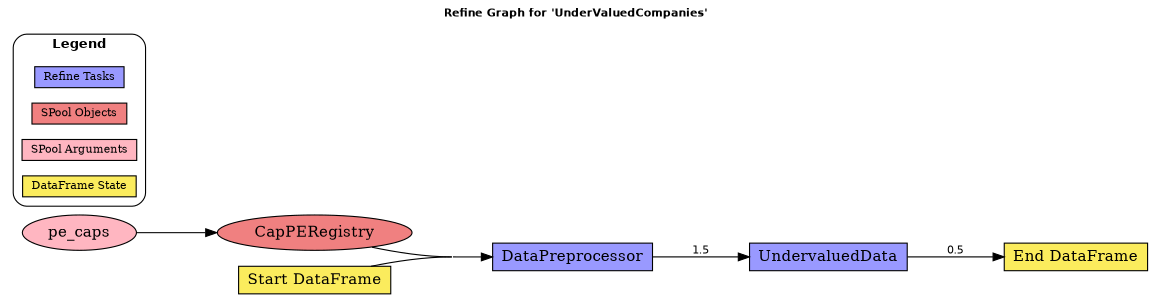
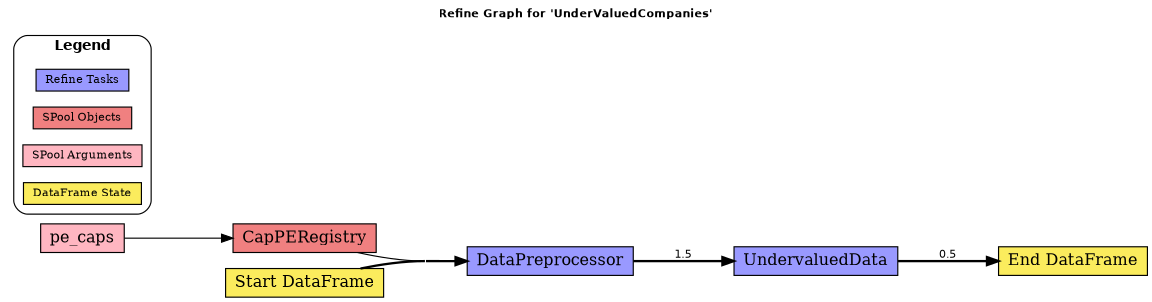
wrap node and edge creation and introduce clustering

Changed region(s): [[0.0, 0.151, 1.0, 0.9966], [0.0, 0.0906, 0.125, 0.1812], [0.375, 0.0302, 0.625, 0.0604]]

diff --git a/weaveflow/core/nxgraph.py b/weaveflow/core/nxgraph.py
@@ -105,11 +105,24 @@ class _BaseGraph(ABC):
         """Extract delta time from collection if available."""
         dt = collection[node]["delta_time"] if node in collection else None
         return f"{dt:,.1f}" if dt else None
-    
+
+    def _style_graph_nodes(self, g: graphviz.Digraph, shapes: dict, colors: dict):
+        """Applies styles (shape, color) to all nodes in the graph."""
+        for k, v in self.graph.nodes.items():
+            node_type = v.get("type")
+            if node_type in shapes:
+                g.node(
+                    k,
+                    shape=shapes[node_type],
+                    style="filled",
+                    fillcolor=colors[node_type],
+                    height="0.35",
+                )
+
     def _rank_source_and_sink_nodes(self, g: graphviz.Digraph) -> None:
         """
         Identify and rank source and sink nodes. Can improve readability of the graph.
-        However, it can also make the graph look cluttered, so use with caution. 
+        However, it can also make the graph look cluttered, so use with caution.
         """
         # Identify and rank source and sink nodes
         source_nodes = [n for n, d in self.graph.in_degree() if d == 0]
@@ -170,9 +183,54 @@ class WeaveGraph(_BaseGraph):
             self.graph.add_edges_from([(v, fn) for v in oargs])
             self.graph.add_edges_from([(fn, v) for v in outputs])
 
+    def _create_task_clusters(self, g: graphviz.Digraph, weave_collector: dict):
+        """Creates a visually distinct cluster for each weave task."""
+        # TODO: Fix warning
+        for fn, vals in weave_collector.items():
+            with g.subgraph(name=f"cluster_{fn}") as c:
+                c.attr(
+                    label=fn,
+                    style="rounded",
+                    color="gray",
+                    fontcolor="gray",
+                    fontsize="10",
+                )
+                # Add the main task node and its direct parameter nodes to the cluster
+                c.node(fn)
+                for p_node in vals.get("params", []):
+                    c.node(p_node)
+
+    def _style_graph_edges(self, g: graphviz.Digraph, weave_collector: dict, timer: bool):
+        """Applies styles (dashed, labels) to all edges in the graph."""
+        for n1, n2 in self.graph.edges():
+            edge_attrs = {}
+            node1_type = self.graph.nodes[n1].get("type")
+
+            if node1_type == "arg_opt":
+                edge_attrs["style"] = "dashed"
+
+            if node1_type == "weave" and timer:
+                label = self._extract_date_from_collection(n1, weave_collector)
+                if label:
+                    edge_attrs.update(
+                        {
+                            "label": label,
+                            "fontsize": "10",
+                            "fontname": "Helvetica",
+                            "labeldistance": "0.5",
+                            "decorate": "False",
+                        }
+                    )
+            g.edge(n1, n2, **edge_attrs)
+
     def build(
-        self, size: int = 12, timer: bool = False, mindist: float = 1.2, legend: bool = True,
-        sink_source: bool = False, 
+        self,
+        size: int = 12,
+        timer: bool = False,
+        mindist: float = 1.2,
+        legend: bool = True,
+        sink_source: bool = False,
+        cluster_tasks: bool = False,
     ) -> graphviz.Digraph:
         """Builds and returns the Graphviz Digraph object for the weave tasks.
 
@@ -192,6 +250,8 @@ class WeaveGraph(_BaseGraph):
                 Defaults to True.
             sink_source (bool, optional): If True, ranks source and sink nodes.
                 Defaults to False.
+            cluster_tasks (bool, optional): If True, groups each weave task and
+                its parameters into a distinct visual cluster. Defaults to True.
 
         Returns:
             graphviz.Digraph: A Graphviz Digraph object representing the weave graph.
@@ -228,7 +288,7 @@ class WeaveGraph(_BaseGraph):
             "arg_opt": ("box", "#99ff99"),
             "outputs": ("box", "#fbec5d"),
             "arg_param": ("box", "#ffb6c1"),
-        }   
+        }
         clrs = {k: v[1] for k, v in weave_nodes_style.items()}
         shapes = {k: v[0] for k, v in weave_nodes_style.items()}
 
@@ -248,34 +308,15 @@ class WeaveGraph(_BaseGraph):
         if sink_source:
             self._rank_source_and_sink_nodes(g)
 
-        for k, v in self.graph.nodes.items():
-            g.node(k, shape=shapes[v["type"]], style="filled", fillcolor=clrs[v["type"]], height="0.35")
+        # Create clusters for each weave task
+        if cluster_tasks:
+            self._create_task_clusters(g, weave_collector)
 
-        for n1, n2 in self.graph.edges():
-            # If left node is weave and produces output
-            if self.graph.nodes[n1]["type"] == "weave" and timer:
-                # Extract time of function execution
-                label = self._extract_date_from_collection(n1, weave_collector)
-                if label:
-                    g.edge(
-                        n1,
-                        n2,
-                        label=label,
-                        fontsize="10",
-                        fontname="Helvetica",
-                        labeldistance="0.5",
-                        decorate="False",
-                    )
-                else:
-                    g.edge(n1, n2)
-                    
-            elif self.graph.nodes[n1]["type"] == "arg_opt":
-                g.edge(n1, n2, style="dashed")
+        # Style nodes and edges
+        self._style_graph_nodes(g, shapes, clrs)
+        self._style_graph_edges(g, weave_collector, timer)
 
-            else:
-                g.edge(n1, n2)
-
-        # Plot legend if specified
+        # Add legend if specified
         if legend:
             _set_graph_legend(
                 g,
@@ -363,28 +404,77 @@ class RefineGraph(_BaseGraph):
             # TODO: Intergate on_method argument as label
             # TODO: Add timer to edges between tasks
 
-            if params:
+            if params and params_object:
                 # Add connection between params (config file args) and params_object
-                self.graph.add_edges_from([(v, params_object) for v in params])
+                self.graph.add_edges_from([(v, params_object) for v in params], flow="data")
                 # Add connection between params_object and refine task
-                self.graph.add_edges_from([(params_object, fn)])
+                self.graph.add_edge(params_object, fn, flow="data")
 
         # Add edges between refine tasks and connect to Start/End
         refine_tasks = list(refine_collector)
         if refine_tasks:
             # Add edges between refine tasks
             if len(refine_tasks) > 1:
-                self.graph.add_edges_from([(i, j) for i, j in zip(refine_tasks, refine_tasks[1:])])
+                self.graph.add_edges_from(
+                    [(i, j) for i, j in zip(refine_tasks, refine_tasks[1:])],
+                    flow="control",
+                )
 
             # Add Start/End nodes and connect them to the flow
             _add_graph_nodes(self.graph, "Start DataFrame", type="boundary")
             _add_graph_nodes(self.graph, "End DataFrame", type="boundary")
-            self.graph.add_edge("Start DataFrame", refine_tasks[0])
-            self.graph.add_edge(refine_tasks[-1], "End DataFrame")
+            self.graph.add_edge("Start DataFrame", refine_tasks[0], flow="control")
+            self.graph.add_edge(refine_tasks[-1], "End DataFrame", flow="control")
+
+    def _create_task_clusters(self, g: graphviz.Digraph, refine_collector: dict) -> None:
+        """Creates a visually distinct cluster for each refine task."""
+        for fn, vals in refine_collector.items():
+            with g.subgraph(name=f"cluster_{fn}") as c:
+                c.attr(
+                    label=fn,
+                    style="rounded",
+                    color="gray",
+                    fontcolor="gray",
+                    fontsize="10",
+                )
+                # Add the main task node and its parameter objects to the cluster
+                c.node(fn)
+                if vals.get("params_object"):
+                    c.node(vals["params_object"])
+                for p_node in vals.get("params", []):
+                    c.node(p_node)
+
+    def _style_graph_edges(self, g: graphviz.Digraph, refine_collector: dict, timer: bool):
+        """Applies styles (penwidth, labels) to all edges in the graph."""
+        for n1, n2 in self.graph.edges():
+            edge_attrs = {}
+            edge_data = self.graph.edges[n1, n2]
+
+            if edge_data.get("flow") == "control":
+                edge_attrs["penwidth"] = "2.0"
+
+            if timer:
+                label = self._extract_date_from_collection(n1, refine_collector)
+                if label:
+                    edge_attrs.update(
+                        {
+                            "label": label,
+                            "fontsize": "10",
+                            "fontname": "Helvetica",
+                            "labeldistance": "0.5",
+                            "decorate": "False",
+                        }
+                    )
+            g.edge(n1, n2, **edge_attrs)
 
     def build(
-        self, size: int = 12, timer: bool = False, mindist: float = 1.2, legend: bool = True,
+        self,
+        size: int = 12,
+        timer: bool = False,
+        mindist: float = 1.2,
+        legend: bool = True,
         sink_source: bool = False,
+        cluster_tasks: bool = False,
     ) -> graphviz.Digraph:
         """Builds and returns the Graphviz Digraph object for the refine tasks.
 
@@ -402,8 +492,10 @@ class RefineGraph(_BaseGraph):
             legend (bool, optional): If True, includes a color-coded legend
                 explaining the different node types (e.g., refine tasks, spool objects).
                 Defaults to True.
-            sink_source (bool, optional): If True, ranks source and sink nodes. 
+            sink_source (bool, optional): If True, ranks source and sink nodes.
                 Defaults to False.
+            cluster_tasks (bool, optional): If True, groups each refine task and
+                its parameters into a distinct visual cluster. Defaults to True.
 
         Returns:
             graphviz.Digraph: A Graphviz Digraph object representing the refine graph.
@@ -437,7 +529,7 @@ class RefineGraph(_BaseGraph):
             "obj_param": ("box", "#f08080"),
             "arg_param": ("box", "#ffb6c1"),
             "boundary": ("box", "#fbec5d"),
-        }   
+        }
         clrs = {k: v[1] for k, v in refine_nodes_style.items()}
         shapes = {k: v[0] for k, v in refine_nodes_style.items()}
 
@@ -457,27 +549,13 @@ class RefineGraph(_BaseGraph):
         if sink_source:
             self._rank_source_and_sink_nodes(g)
 
-        for k, v in self.graph.nodes.items():
-            g.node(k, shape=shapes[v["type"]], style="filled", fillcolor=clrs[v["type"]], height="0.35")
+        # Create clusters for each refine task
+        if cluster_tasks:
+            self._create_task_clusters(g, refine_collector)
 
-        for n1, n2 in self.graph.edges():
-            if timer:
-                # Extract time of function execution
-                label = self._extract_date_from_collection(n1, refine_collector)
-                if label:
-                    g.edge(
-                        n1,
-                        n2,
-                        label=label,
-                        fontsize="10",
-                        fontname="Helvetica",
-                        labeldistance="0.5",
-                        decorate="False",
-                    )
-                else:
-                    g.edge(n1, n2)
-            else:
-                g.edge(n1, n2)
+        # Style nodes and edges
+        self._style_graph_nodes(g, shapes, clrs)
+        self._style_graph_edges(g, refine_collector, timer)
 
         if legend:
             _set_graph_legend(
